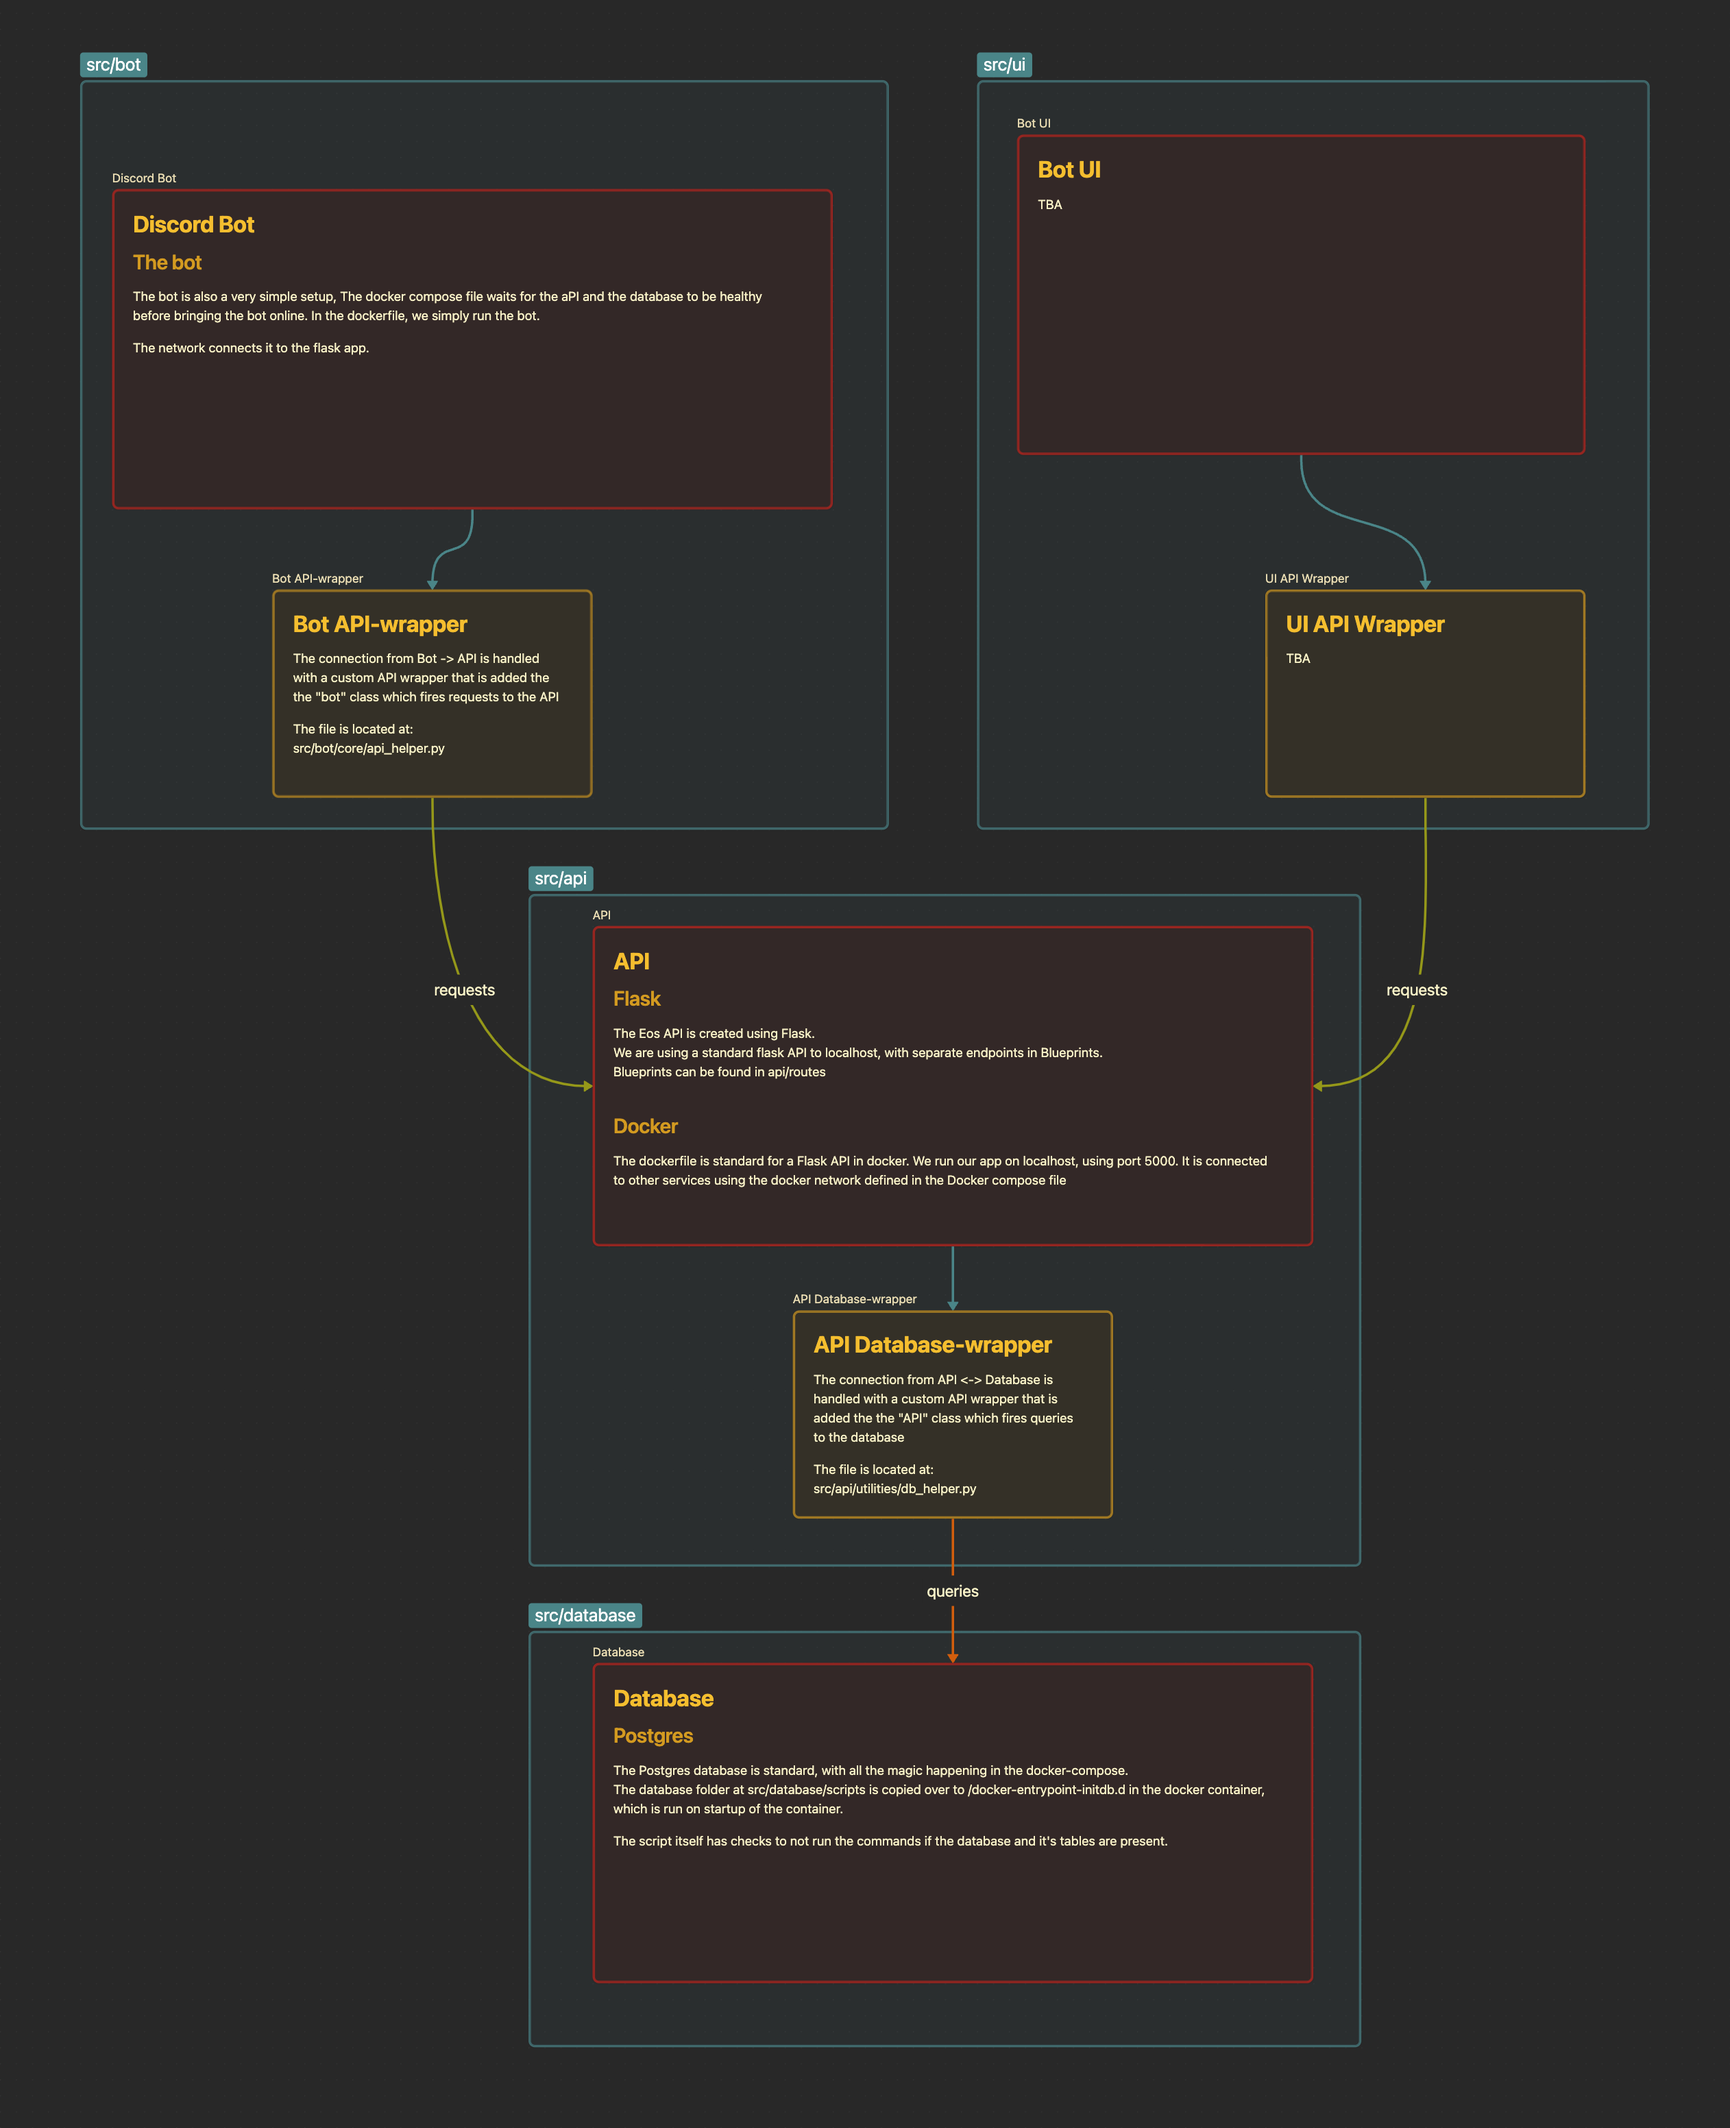
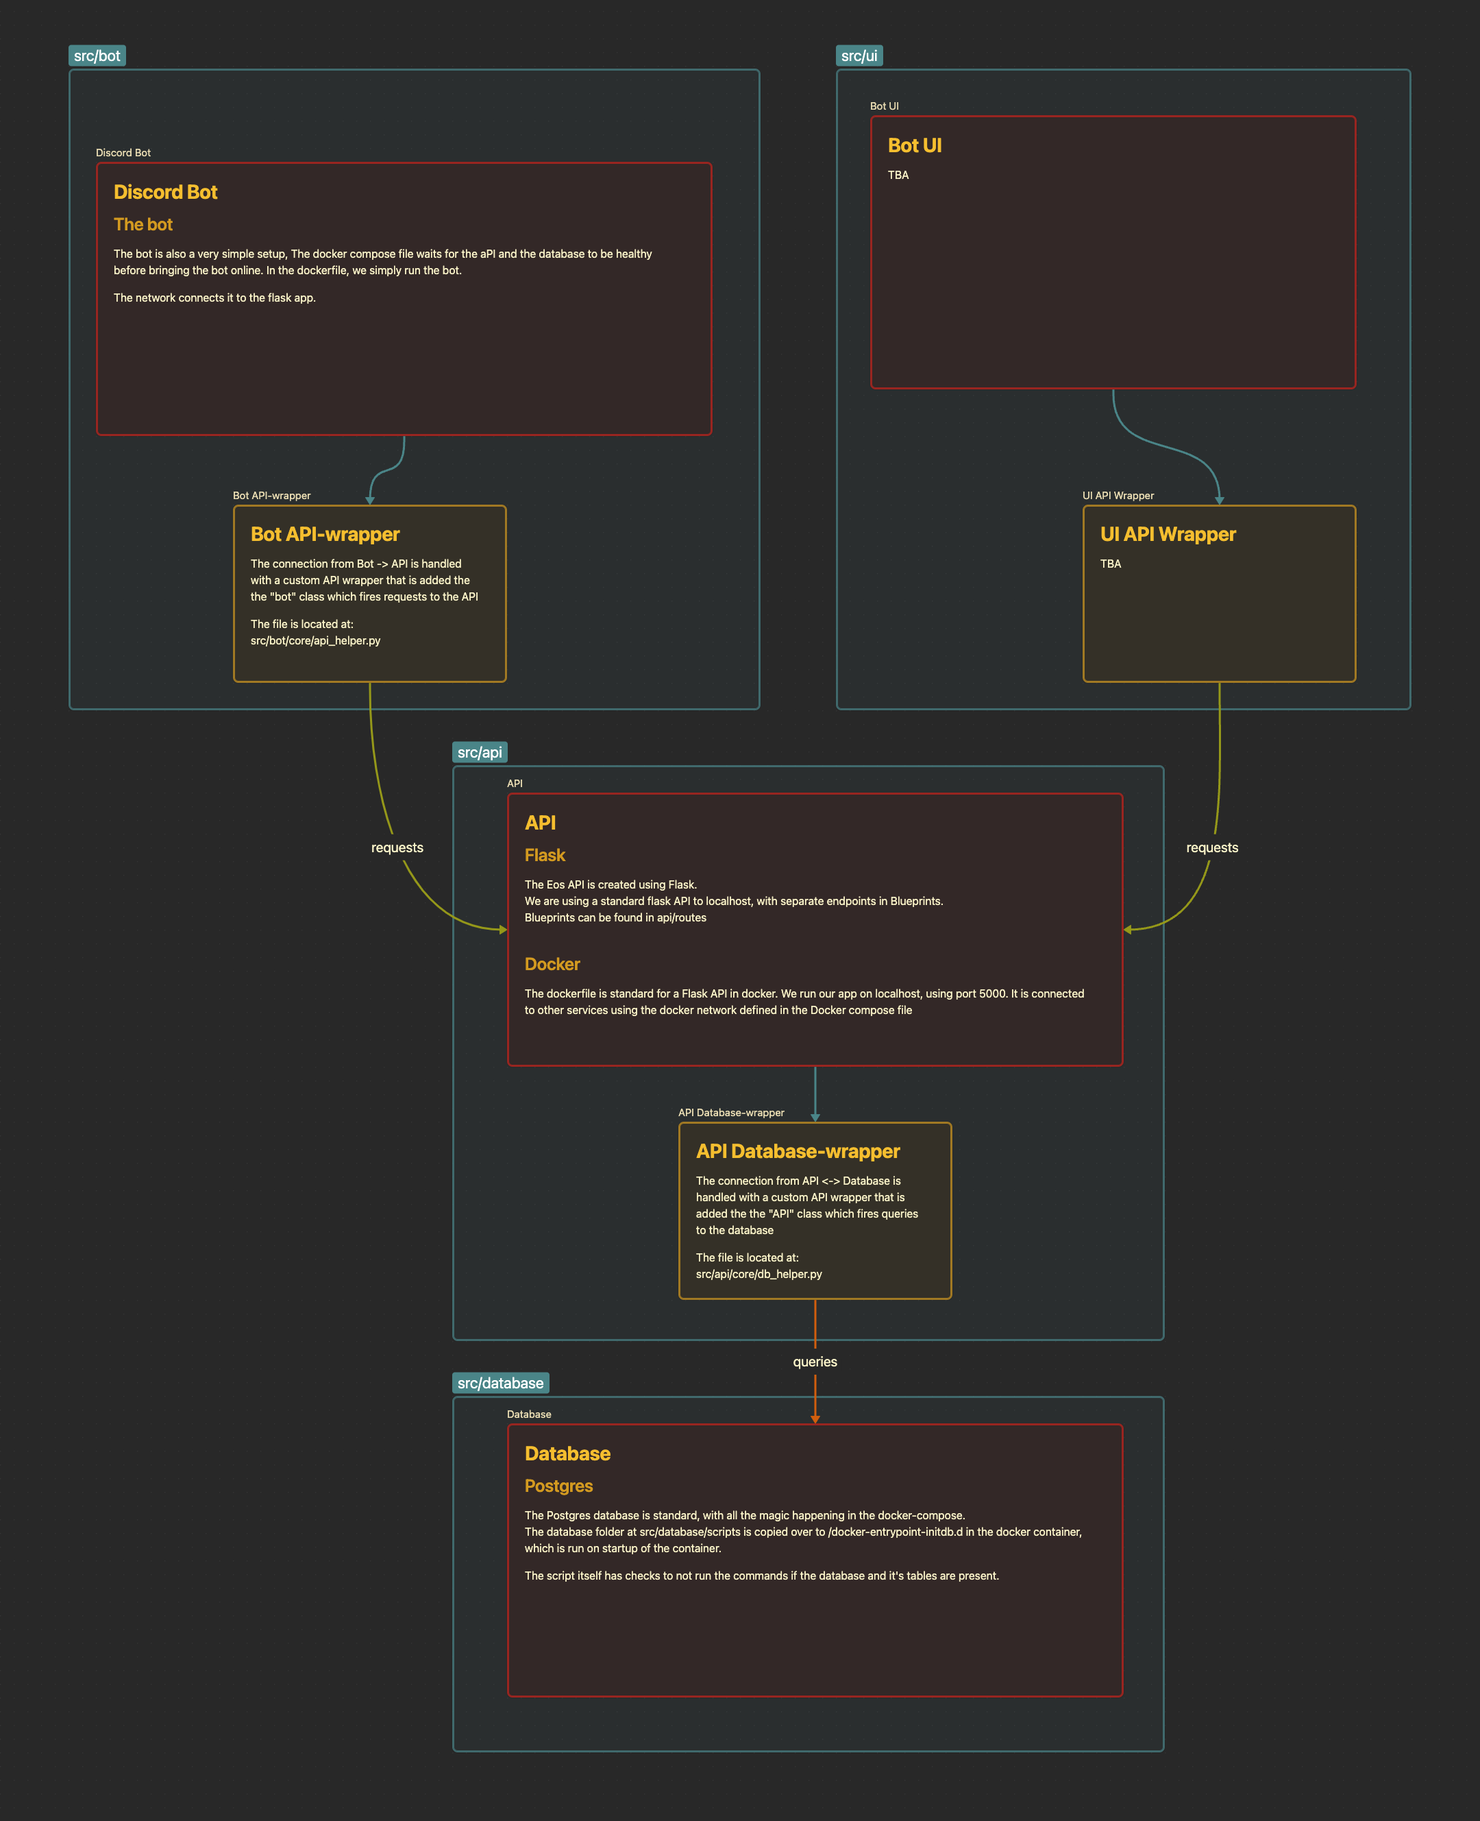
rename file

diff --git a/Documentation/Eos/API/API Database-wrapper.md b/Documentation/Eos/API/API Database-wrapper.md
@@ -1,3 +1,4 @@
 The connection from API <-> Database is handled with a custom API wrapper that is added the the "API" class which fires queries to the database
 
-The file is located at: src/api/utilities/db_helper.py
+The file is located at:
+src/api/core/db_helper.py
